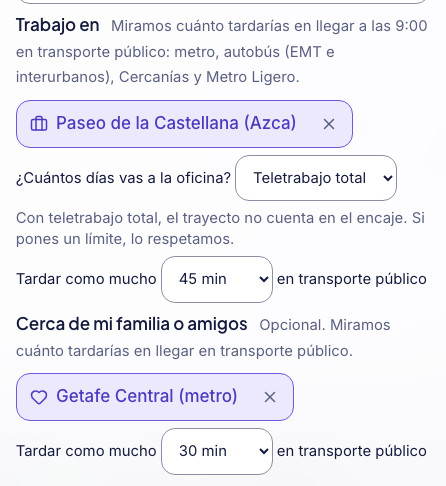
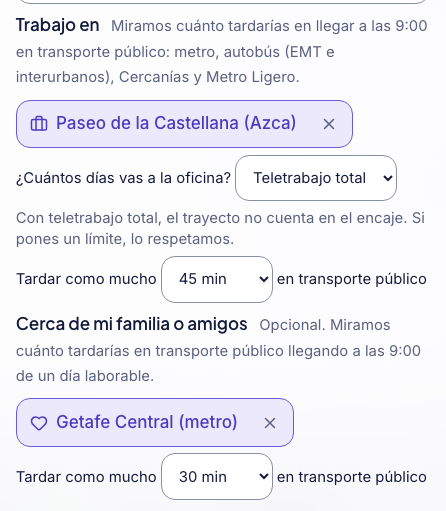
D-240 after the PR #60 review: facts, tie-break, golden profiles that change weight; copy and evidence (R-01 to R-08)
D-240 says why the cost stays among the facts and the family trip is the one that goes, the
lead_trip tie-break, the limited telework trip shown without weight, that golden_senior and
golden_reduced_mobility now halve their trip (still 9/9), the telework smoke check and why no
new golden scenarios yet. Copy: familia.ayuda with the 9:00 weekday proxy, trabajo.max_min.aria.
Evidence: the card with work and family (the rent stays), the form with the new help, axe clean,
the local smoke 9/9 with telework, golden 9/9 and the invariant against production (now with
PR #58 deployed: equal except methodology_version and the echoed scope).

Changed region(s): [[0.0291, 0.0309, 0.9619, 0.9877], [0.6413, 0.8333, 0.6704, 0.8642], [0.0291, 0.8333, 0.0583, 0.8642]]

diff --git a/docs/00_index/01_decisions_log.md b/docs/00_index/01_decisions_log.md
@@ -1439,6 +1439,8 @@ Feedback de usuarios de prueba del 14 nov e ideas de Mariano. Quien va pocos dí
    - **1 o 2 días:** el trayecto pesa la mitad de su peso por orden y los demás criterios no cambian. Como el % divide por el peso de los criterios con dato, el trayecto cuenta menos frente a lo demás. Ejemplo del test: con un colegio a un paseo (utilidad 1) y un trayecto de 90 min (utilidad 0), la zona sale al 67 % yendo cada día y al 80 % yendo 1 o 2 días.
    - **0 días («Teletrabajo total»):** es nuevo en el contrato (`days_per_week` va ahora de 0 a 7). El trayecto no puntúa: la zona se puntúa como si no hubiera lugar de trabajo, y el peso por orden se reparte entre los demás criterios.
    - **El límite (`max_minutes`) se aplica igual con cualquier número de días, también con 0.** Es una condición que la persona pone a propósito, por ejemplo para poder llegar en 45 min el día que la llamen. La web mantiene «Tardar como mucho» con teletrabajo total y no borra el límite al cambiar los días.
+   - **Con 0 días y límite, la tarjeta enseña los minutos** como un hecho más, sin peso (`limited_trips`), detrás de los que puntúan. Así la persona ve cuánto tarda cada zona con el límite que ha puesto. Sin límite no sale nada: ese trayecto ni puntúa ni limita.
+   - **La regla vale para cualquier lugar**, no solo para el trabajo: la web solo pregunta los días del trabajo, pero el contrato los admite en todos. Por eso dos perfiles dorados cambian de peso con `fit-0.8`: `golden_senior` (su hijo en Getafe, 2 días) y `golden_reduced_mobility` (el hospital La Paz, 1 día) pesan ahora su trayecto a la mitad. Sus expectativas se siguen cumpliendo (9 de 9).
    - Constantes: `FEW_DAYS_PER_WEEK = 2` y `FEW_DAYS_WEIGHT = 0.5`. La web repite el 2 (`FEW_OFFICE_DAYS`) solo para decidir qué ayuda enseña.
    - **Descartado:**
      - un peso proporcional a los días (días/5): es más difícil de decir en una frase y cambiaba el % del ejemplo, que va 4 días;
@@ -1448,12 +1450,12 @@ Feedback de usuarios de prueba del 14 nov e ideas de Mariano. Quien va pocos dí
    - **Comprobado** con tests del dominio (dos trayectos, cada uno con sus minutos y su límite, y el segundo lugar conserva su índice aunque el primero no puntúe) y con la API local sobre la base (solo lectura), partiendo del caso de ejemplo:
      - la familia en Getafe Central con 30 min como mucho deja 5 zonas: Villaverde, Leganés, Getafe, Fuenlabrada y Parla;
      - un punto cualquiera (lon −3,38, lat 40,49) con 45 min deja 2: Torrejón de Ardoz y Alcalá de Henares;
-     - ningún aviso de destino sin calcular, y cada zona trae los dos hechos de trayecto.
+     - ningún aviso de destino sin calcular, y cada zona trae los dos trayectos. Con tres prioridades y presupuesto, el de la familia cede su hecho al alquiler (punto 8), pero su condición sigue saliendo cuando falla.
    - **Orden.** La web pone siempre el trabajo primero y la familia después, sea cual sea el orden en que se elijan. Así el trabajo conserva el índice 0 (`commute:0`) y más peso por orden. Los criterios quedan así: prioridades, trabajo, familia, servicios deseados y presupuesto. Si solo hay familia, va en el índice 0.
    - Los días solo se preguntan para el trabajo. La familia va con el valor del contrato (5) y pesa como siempre.
-   - **Proxy declarado:** el trayecto a la familia se mide con la misma matriz que el del trabajo, llegando a las 9:00 de un día laborable. A la familia se suele ir a otras horas y en fin de semana, con menos frecuencia de paso. El hecho de la tarjeta lo dice: «28 min en transporte público hasta Getafe Central (Cercanías), llegando a las 9:00».
-   - El desempate por minutos de D-220 y D-239 sigue usando el primer lugar (`commute:0`), también con teletrabajo total: solo decide entre empates exactos.
-3. **`fit-0.8`.** La puntuación cambia con 0, 1 o 2 días, así que sube la versión. Con 3 o más días todo es igual que en `fit-0.7`, con o sin un lugar de familia.
+   - **Proxy declarado:** el trayecto a la familia se mide con la misma matriz que el del trabajo, llegando a las 9:00 de un día laborable. A la familia se suele ir a otras horas y en fin de semana, con menos frecuencia de paso. Lo dicen la ayuda del campo («Opcional. Miramos cuánto tardarías en transporte público llegando a las 9:00 de un día laborable.») y el hecho de la tarjeta («28 min en transporte público hasta Getafe Central (Cercanías), llegando a las 9:00»).
+   - **Desempate.** Los minutos que desempatan (D-220, D-239) son los del primer lugar al que la persona va (`lead_trip`). Con teletrabajo total en el trabajo son los del siguiente lugar al que va o, si no hay ninguno, los del primero con límite. Sin ninguno, el empate pasa directo al id de la zona. Con el trabajo primero y al menos 1 día es `commute:0`, como antes.
+3. **`fit-0.8`.** La puntuación cambia con 0, 1 o 2 días, así que sube la versión. Con 3 o más días el % es igual que en `fit-0.7`, con o sin un lugar de familia; solo puede cambiar qué hechos salen (punto 8). Los PR #59, #60 y #62 se fusionan como una sola versión `fit-0.8` (D-234, D-236 y D-240). `pitch/metodologia.md` y los fixtures se actualizan después del despliegue.
 4. **Invariante del pitch, comprobado el 14 nov.** API de esta rama sobre la base local (solo lectura) frente a producción, con el caso del ejemplo (4 días, sin límite y sin familia):
    - 27 zonas que encajan y 15 sin dato;
    - top 10 idéntico: Latina 98, Moratalaz 98, Ciudad Lineal 98, Puente de Vallecas 98, Fuencarral-El Pardo 97, Usera 97, Carabanchel 97, Hortaleza 97, San Blas-Canillejas 97 y Villaverde 97;
@@ -1470,3 +1472,12 @@ Feedback de usuarios de prueba del 14 nov e ideas de Mariano. Quien va pocos dí
    - **«Cerca de mi familia o amigos»** es el mismo campo que «Trabajo en» (estaciones y zonas, combobox ARIA 1.2), con su propio «Tardar como mucho». `WorkField.tsx` pasa a ser `PlaceField.tsx`, con `kind` (`work` o `family`), y las estaciones se piden una sola vez para los dos campos.
    - **«Qué falta» sin zona:** la lista de distritos y municipios va plegada tras «Ver las 199 zonas» (`aria-expanded` y `aria-controls`), como «Ver las 10 primeras». «Madrid (toda la ciudad)» sigue a la vista y, al escribir un nombre, sus zonas salen aunque esté plegada. La lista de `/zonas` no se pliega.
 7. **Orden en producción.** Basta desplegar: no hay datos nuevos ni sync. La API anterior rechaza `days_per_week: 0` (422), así que la web y la API van en el mismo despliegue, como siempre.
+   - `scripts/smoke_demo.sh` tiene una comprobación nueva, `telework`: el caso de ejemplo con `days_per_week: 0` debe dar 200 y `fit-0.8`. Antes del despliegue, producción da 422, así que el smoke pasa de 9 a 10 comprobaciones (9 con `SMOKE_API_ONLY`).
+8. **Revisión del PR #60.**
+   - **Hechos de la tarjeta.** Son 5 como mucho, en orden de importancia. Con tres prioridades, trabajo y familia, el alquiler era el sexto y desaparecía de la tarjeta. Ahora, si hay presupuesto, el coste siempre se queda y sale el menos importante de los demás: en ese caso, el trayecto a la familia (`capped`).
+     - Con 5 hechos o menos no cambia nada: el caso del pitch es igual.
+     - Un test de propiedad lo comprueba: con presupuesto, el coste siempre está entre los hechos, con cualquier combinación de prioridades, lugares, días y límites.
+     - Descartado: juntar los dos trayectos en un hecho, porque cada uno tiene su tipo (punto fuerte o débil) y su fiabilidad.
+     - La condición del límite a la familia sigue saliendo cuando falla, con sus minutos (`trabajo.tarda`).
+   - **Accesibilidad.** El selector de días está unido a su ayuda con `aria-describedby`. El límite del trabajo se llama «Tardar como mucho hasta el trabajo, en transporte público», como el de la familia; el e2e (`infra/deploy/e2e/e2e_prod.mjs`) y `apps/web/scripts/check-search.mjs` lo buscan con ese texto.
+   - **Sin escenarios dorados nuevos.** Teletrabajo con 45 min y familia con 30 min (opcional en la revisión) no se añaden ahora: el test de los perfiles dorados exige que no lleven límite y que cada uno sea un perfil de `user_profiles.yaml`. Los cubren los tests del dominio y la evidencia de casos.

diff --git a/evidence/gate-06/2026-11-14-family-telework/README.md b/evidence/gate-06/2026-11-14-family-telework/README.md
@@ -1,6 +1,6 @@
 # Días de oficina, teletrabajo, familia o amigos y «Qué falta» plegada (D-240)
 
-Feedback de usuarios de prueba del 14 nov e ideas de Mariano. Rama `claude/s1-family-telework`, ya con la base `15393cb` (#53, #54 y #56).
+Feedback de usuarios de prueba del 14 nov e ideas de Mariano. Rama `claude/s1-family-telework` (PR #60), con la base `15393cb` (#53, #54 y #56) y los ajustes de la revisión del PR.
 
 Cómo se comprobó:
 - API de esta rama (`fit-0.8`) sobre la base local `housing`, en solo lectura (`default_transaction_read_only=on`), frente a la API de producción.
@@ -13,7 +13,8 @@ El caso del ejemplo (4 días, sin límite y sin familia) da lo mismo que producc
 - 27 zonas que encajan y 15 sin dato;
 - top 10: Latina, Moratalaz, Ciudad Lineal, Puente de Vallecas, Fuencarral-El Pardo, Usera, Carabanchel, Hortaleza, San Blas-Canillejas y Villaverde;
 - «Casi encajan»: Chamartín, Salamanca, Centro, Chamberí y Retiro;
-- `data` igual salvo `methodology_version` (`fit-0.8` frente a `fit-0.7`); `/search/barrios` igual en los 21 distritos;
+- `data` igual salvo `methodology_version` (`fit-0.8` frente a `fit-0.7`) y `/search/barrios` igual en los 21 distritos.
+  - Tras la revisión, producción ya lleva el PR #58 y devuelve `scope: "all"` en el escenario, que esta rama aún no tiene: quitando ese campo y la versión, todo es igual;
 - `scripts/golden_search.py`: 9 de 9 (incluye `ranked_order` y `near_miss_order` de D-239).
 
 ## Casos (`casos-dias-familia.txt`, API local)
@@ -23,8 +24,8 @@ El caso del ejemplo (4 días, sin límite y sin familia) da lo mismo que producc
 | Ejemplo, 3 días | 27 | Igual que con 4 |
 | Ejemplo, 1 o 2 días | 27 | El trayecto pesa la mitad: Alcorcón y Leganés entran en el top 10 |
 | Ejemplo, teletrabajo total | 27 | El trayecto no puntúa: las 10 primeras al 100 %, ordenadas por servicios a pie (D-239) |
-| Teletrabajo total y 45 min como mucho | 10 | El límite se aplica: la condición que más quita es `commute:0` |
-| Familia en Getafe Central | 27 | Dos hechos de trayecto en cada zona |
+| Teletrabajo total y 45 min como mucho | 10 | El límite se aplica: la condición que más quita es `commute:0`. La tarjeta enseña los minutos como dato, sin peso |
+| Familia en Getafe Central | 27 | Con tres prioridades, trabajo y familia hay seis hechos: el alquiler se queda y sale el trayecto a la familia, el menos importante |
 | Familia en Getafe Central, 30 min | 5 | Villaverde, Leganés, Getafe, Fuenlabrada y Parla (`commute:1`) |
 | Familia en un punto cualquiera (lon −3,38, lat 40,49), 45 min | 2 | Torrejón de Ardoz y Alcalá de Henares, sin avisos de destino |
 
@@ -32,17 +33,21 @@ El caso del ejemplo (4 días, sin límite y sin familia) da lo mismo que producc
 
 | Fichero | Qué se ve |
 |---|---|
-| `formulario-familia-dias-1440.png`, `formulario-familia-dias-390.png` | El ejemplo con «2 días» y su ayuda, y «Cerca de mi familia o amigos» con Getafe Central y 30 min |
+| `formulario-familia-dias-1440.png`, `formulario-familia-dias-390.png` | El ejemplo con «2 días» y su ayuda, y «Cerca de mi familia o amigos» con Getafe Central, 30 min y la ayuda que declara las 9:00 de un día laborable |
 | `formulario-teletrabajo-1440.png`, `formulario-teletrabajo-390.png` | «Teletrabajo total», con su ayuda y el límite de 45 min, que se sigue aplicando |
 | `resultados-familia-dias-1440.png`, `resultados-familia-dias-390.png` | La búsqueda anterior: 5 zonas, y lo que más limita es el trayecto a la familia |
+| `tarjeta-trabajo-familia-1440.png`, `tarjeta-trabajo-familia-390.png` | La tarjeta de Villaverde con trabajo y familia: colegio, transporte, salud, trayecto al trabajo y alquiler. El alquiler ya no se cae |
 | `que-falta-plegada-1440.png`, `que-falta-plegada-390.png` | «Qué falta» sin zona: «Madrid (toda la ciudad)» y el botón «Ver las 199 zonas» |
 | `que-falta-plegada-pantalla-390.png` | La misma lista en el móvil, dentro de la página |
 
-## Comprobaciones de la web (`capture-report.json`)
+## Comprobaciones de la web (`capture-report.json`) y smoke (`smoke-local.txt`)
 
 - **El formulario envía** los dos lugares, el trabajo primero: `days_per_week: 2` y `max_minutes: null` en el trabajo, y `kind: "family"` con `max_minutes: 30`. Con «Teletrabajo total» envía `days_per_week: 0` y conserva `max_minutes: 45`.
+- **El selector de días** está unido a su ayuda con `aria-describedby`. El límite del trabajo se llama «Tardar como mucho hasta el trabajo, en transporte público».
+- **La tarjeta** dice lo mismo que la API: cinco hechos, el último el alquiler.
 - **«Qué falta» plegada:**
   - el botón empieza con `aria-expanded="false"` y solo se ve el enlace de Madrid; abierta, `aria-expanded="true"` y 199 enlaces;
   - al escribir «Getafe», sale aunque la lista esté plegada y el botón desaparece;
   - en el móvil, la página mide 5.090 px plegada frente a 14.524 abierta.
-- **axe:** 0 incidencias en el formulario, en los resultados y en «Qué falta» (plegada y abierta), a 1440 y a 390 px. Ningún desborde horizontal y ningún error en la consola.
+- **axe:** 0 incidencias en el formulario, en los resultados, en la tarjeta y en «Qué falta» (plegada y abierta), a 1440 y a 390 px. Ningún desborde horizontal y ningún error en la consola.
+- **Smoke de la API** (`scripts/smoke_demo.sh`, solo API): 9 de 9, con el nuevo `telework` (`days_per_week: 0` → 200 y `fit-0.8`). Producción, antes del despliegue, responde 422 a esa petición.

diff --git a/pitch/textos_web.md b/pitch/textos_web.md
@@ -212,8 +212,9 @@ Se pueden marcar varios. El orden en que se marcan es el orden de importancia (`
 | `trabajo.dias` | ¿Cuántos días vas a la oficina? | **Activo el 14 nov** (D-240, feedback de usuarios de prueba). Selector bajo el lugar de trabajo, con las opciones de `trabajo.dias.opcion`. Envía `days_per_week`; hasta que la persona lo cambia no se envía y vale 5. El caso de ejemplo va 4 días y sus cifras no cambian: desde 3 días el trayecto pesa como siempre. Antes: «¿Cuántos días vas a la semana?», sin mostrarse |
 | `trabajo.dias.opcion` | 5 días · 4 días · 3 días · 2 días · 1 día · Teletrabajo total | «Teletrabajo total» envía `days_per_week: 0`. Un enlace compartido con 6 o 7 días también los ofrece |
 | `trabajo.dias.pocos` | Como vas pocos días, el trayecto cuenta la mitad. | Bajo el selector, con 1 o 2 días: el trayecto pesa la mitad en el % (D-240) |
-| `trabajo.dias.teletrabajo` | Con teletrabajo total, el trayecto no cuenta en el encaje. Si pones un límite, lo respetamos. | Bajo el selector, con «Teletrabajo total»: el trayecto no puntúa, pero `trabajo.max_min` se sigue aplicando (D-240) |
+| `trabajo.dias.teletrabajo` | Con teletrabajo total, el trayecto no cuenta en el encaje. Si pones un límite, lo respetamos. | Bajo el selector, con «Teletrabajo total»: el trayecto no puntúa, pero `trabajo.max_min` se sigue aplicando (D-240). Con límite, la tarjeta enseña los minutos como dato, sin peso. Las dos ayudas de los días van unidas al selector con `aria-describedby` |
 | `trabajo.max_min` | Tardar como mucho [{n}] min en transporte público | **Activo el 14 nov** (feedback de usuarios de prueba: «me salían sitios muy lejos»). Los minutos son un selector dentro de la frase, como en `cerca.item`: «Sin límite» (por defecto, envía `max_minutes: null`), «30 min», «45 min», «60 min» y «90 min». Solo sale cuando hay un lugar de trabajo, también con «Teletrabajo total» (D-240). Con límite, cada zona sale cumple, no cumple o sin dato (CORE-009, D-220 §8). El ejemplo de la portada va siempre sin límite: sus cifras son las del pitch |
+| `trabajo.max_min.aria` | Tardar como mucho hasta el trabajo, en transporte público | `aria-label` del selector. **Cambia el 14 nov** (revisión del PR #60): nombra el lugar, como `familia.max_min.aria`. Antes: «Tardar como mucho, en transporte público». El e2e y `check-search` buscan este texto |
 | `trabajo.sin_limite` | Sin límite | **Nueva, 14 nov** (feedback de usuarios de prueba). Primera opción del selector de `trabajo.max_min` |
 | `trabajo.tarda` | {condición} (tardarías {n} min) | **Nueva, 14 nov** (feedback de usuarios de prueba). Va en «Casi encajan» y en «No cumple:» de la tarjeta de zona cuando falla el trayecto: «Trayecto a Paseo de la Castellana (Azca) de 45 min como mucho (tardarías 46 min)». Los minutos son los del hecho de la API (al minuto más cercano), salvo que nunca se leen como el propio límite (45,2 contra 45 sale «46 min»); por encima de 120, «más de 2 h» |
 | `trabajo.transporte_pronto` | Tiempo en transporte: muy pronto | Etiqueta pequeña bajo el campo. **Se quita** cuando `fit-0.2` llegue a producción: el tiempo en transporte ya está calculado (D-220) |
@@ -229,7 +230,7 @@ Segundo lugar, opcional, debajo de «Trabajo en». Es el mismo campo: estaciones
 | Clave | Texto | Notas |
 |---|---|---|
 | `familia.titulo` | Cerca de mi familia o amigos | **Nueva, 14 nov** (idea de Mariano y feedback de usuarios de prueba). Envía un lugar `kind: "family"`, siempre detrás del trabajo |
-| `familia.ayuda` | Opcional. Miramos cuánto tardarías en llegar en transporte público. | Se mide como el trabajo, llegando a las 9:00 de un día laborable, y el hecho de la tarjeta lo dice: «28 min en transporte público hasta Getafe Central (Cercanías), llegando a las 9:00» |
+| `familia.ayuda` | Opcional. Miramos cuánto tardarías en transporte público llegando a las 9:00 de un día laborable. | Se mide como el trabajo, y el texto lo declara porque a la familia se suele ir a otras horas (revisión del PR #60). El hecho de la tarjeta lo dice también: «28 min en transporte público hasta Getafe Central (Cercanías), llegando a las 9:00». Antes: «Opcional. Miramos cuánto tardarías en llegar en transporte público.» |
 | `familia.max_min` | Tardar como mucho [{n}] min en transporte público | Como `trabajo.max_min`, con su propio límite y «Sin límite» por defecto. Si falla, va con `trabajo.tarda`: «Trayecto a Getafe Central (Cercanías) de 30 min como mucho (tardarías {n} min)» |
 | `familia.max_min.aria` | Tardar como mucho hasta mi familia o amigos, en transporte público | `aria-label` del selector, distinto del del trabajo |
 
